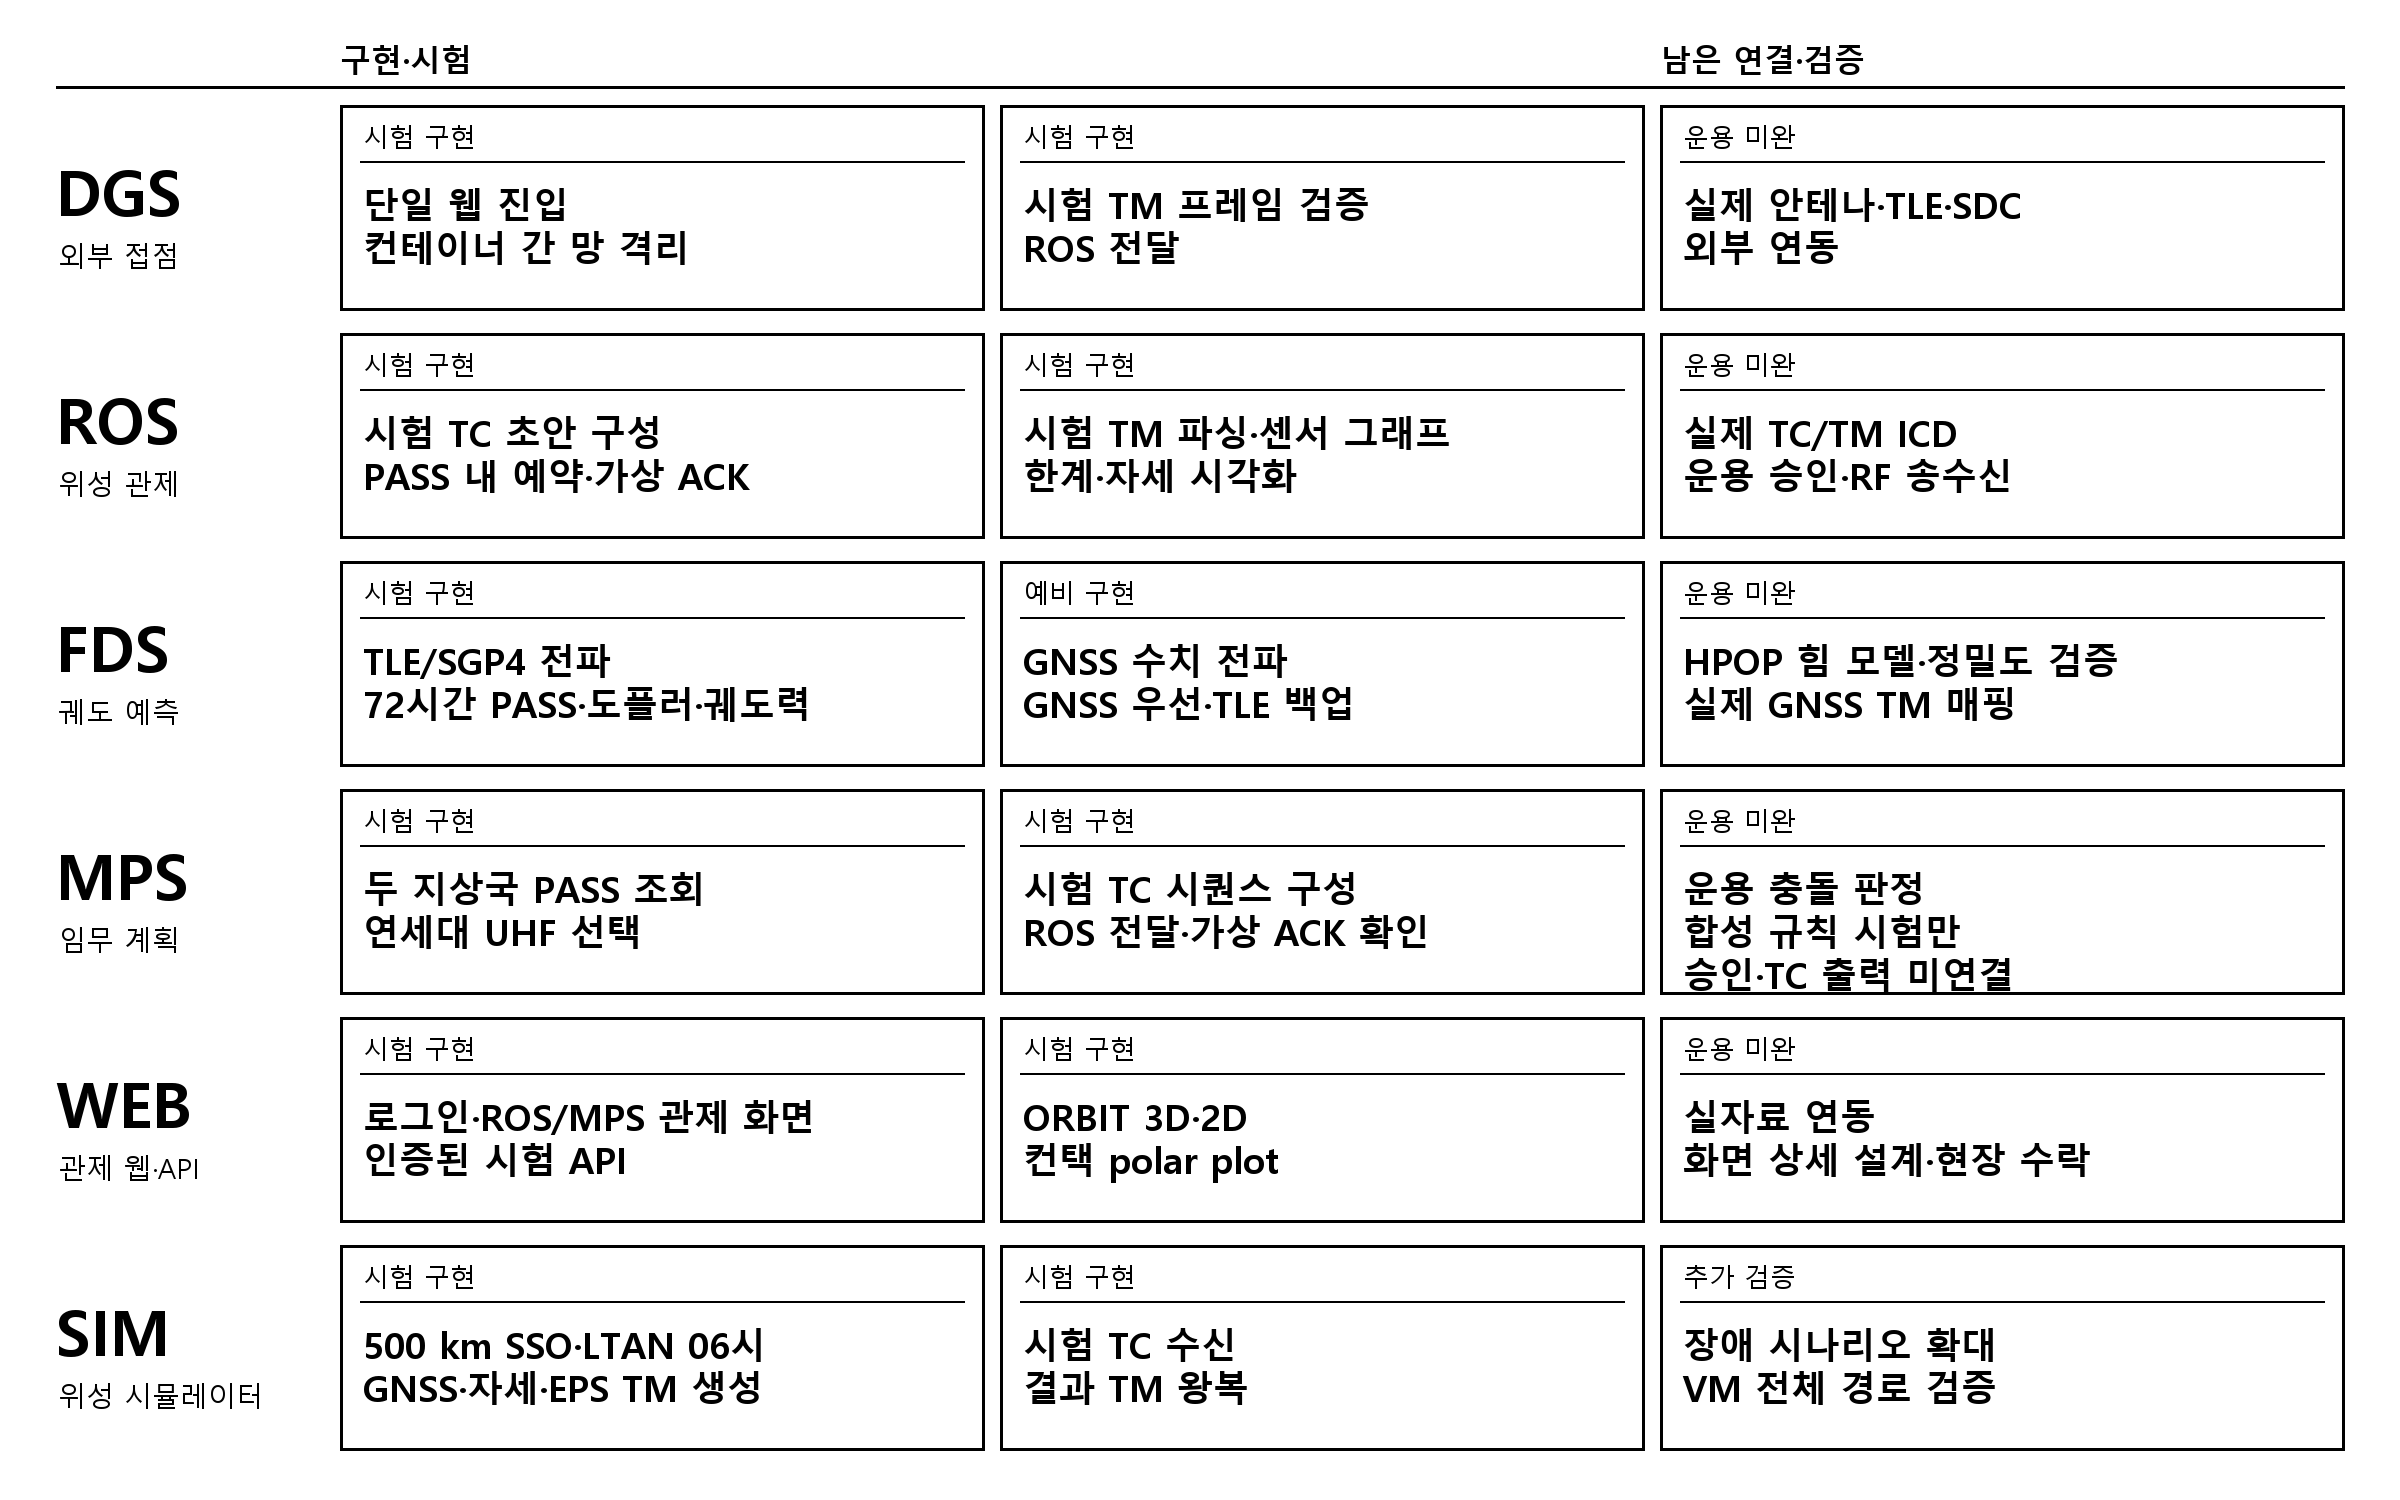
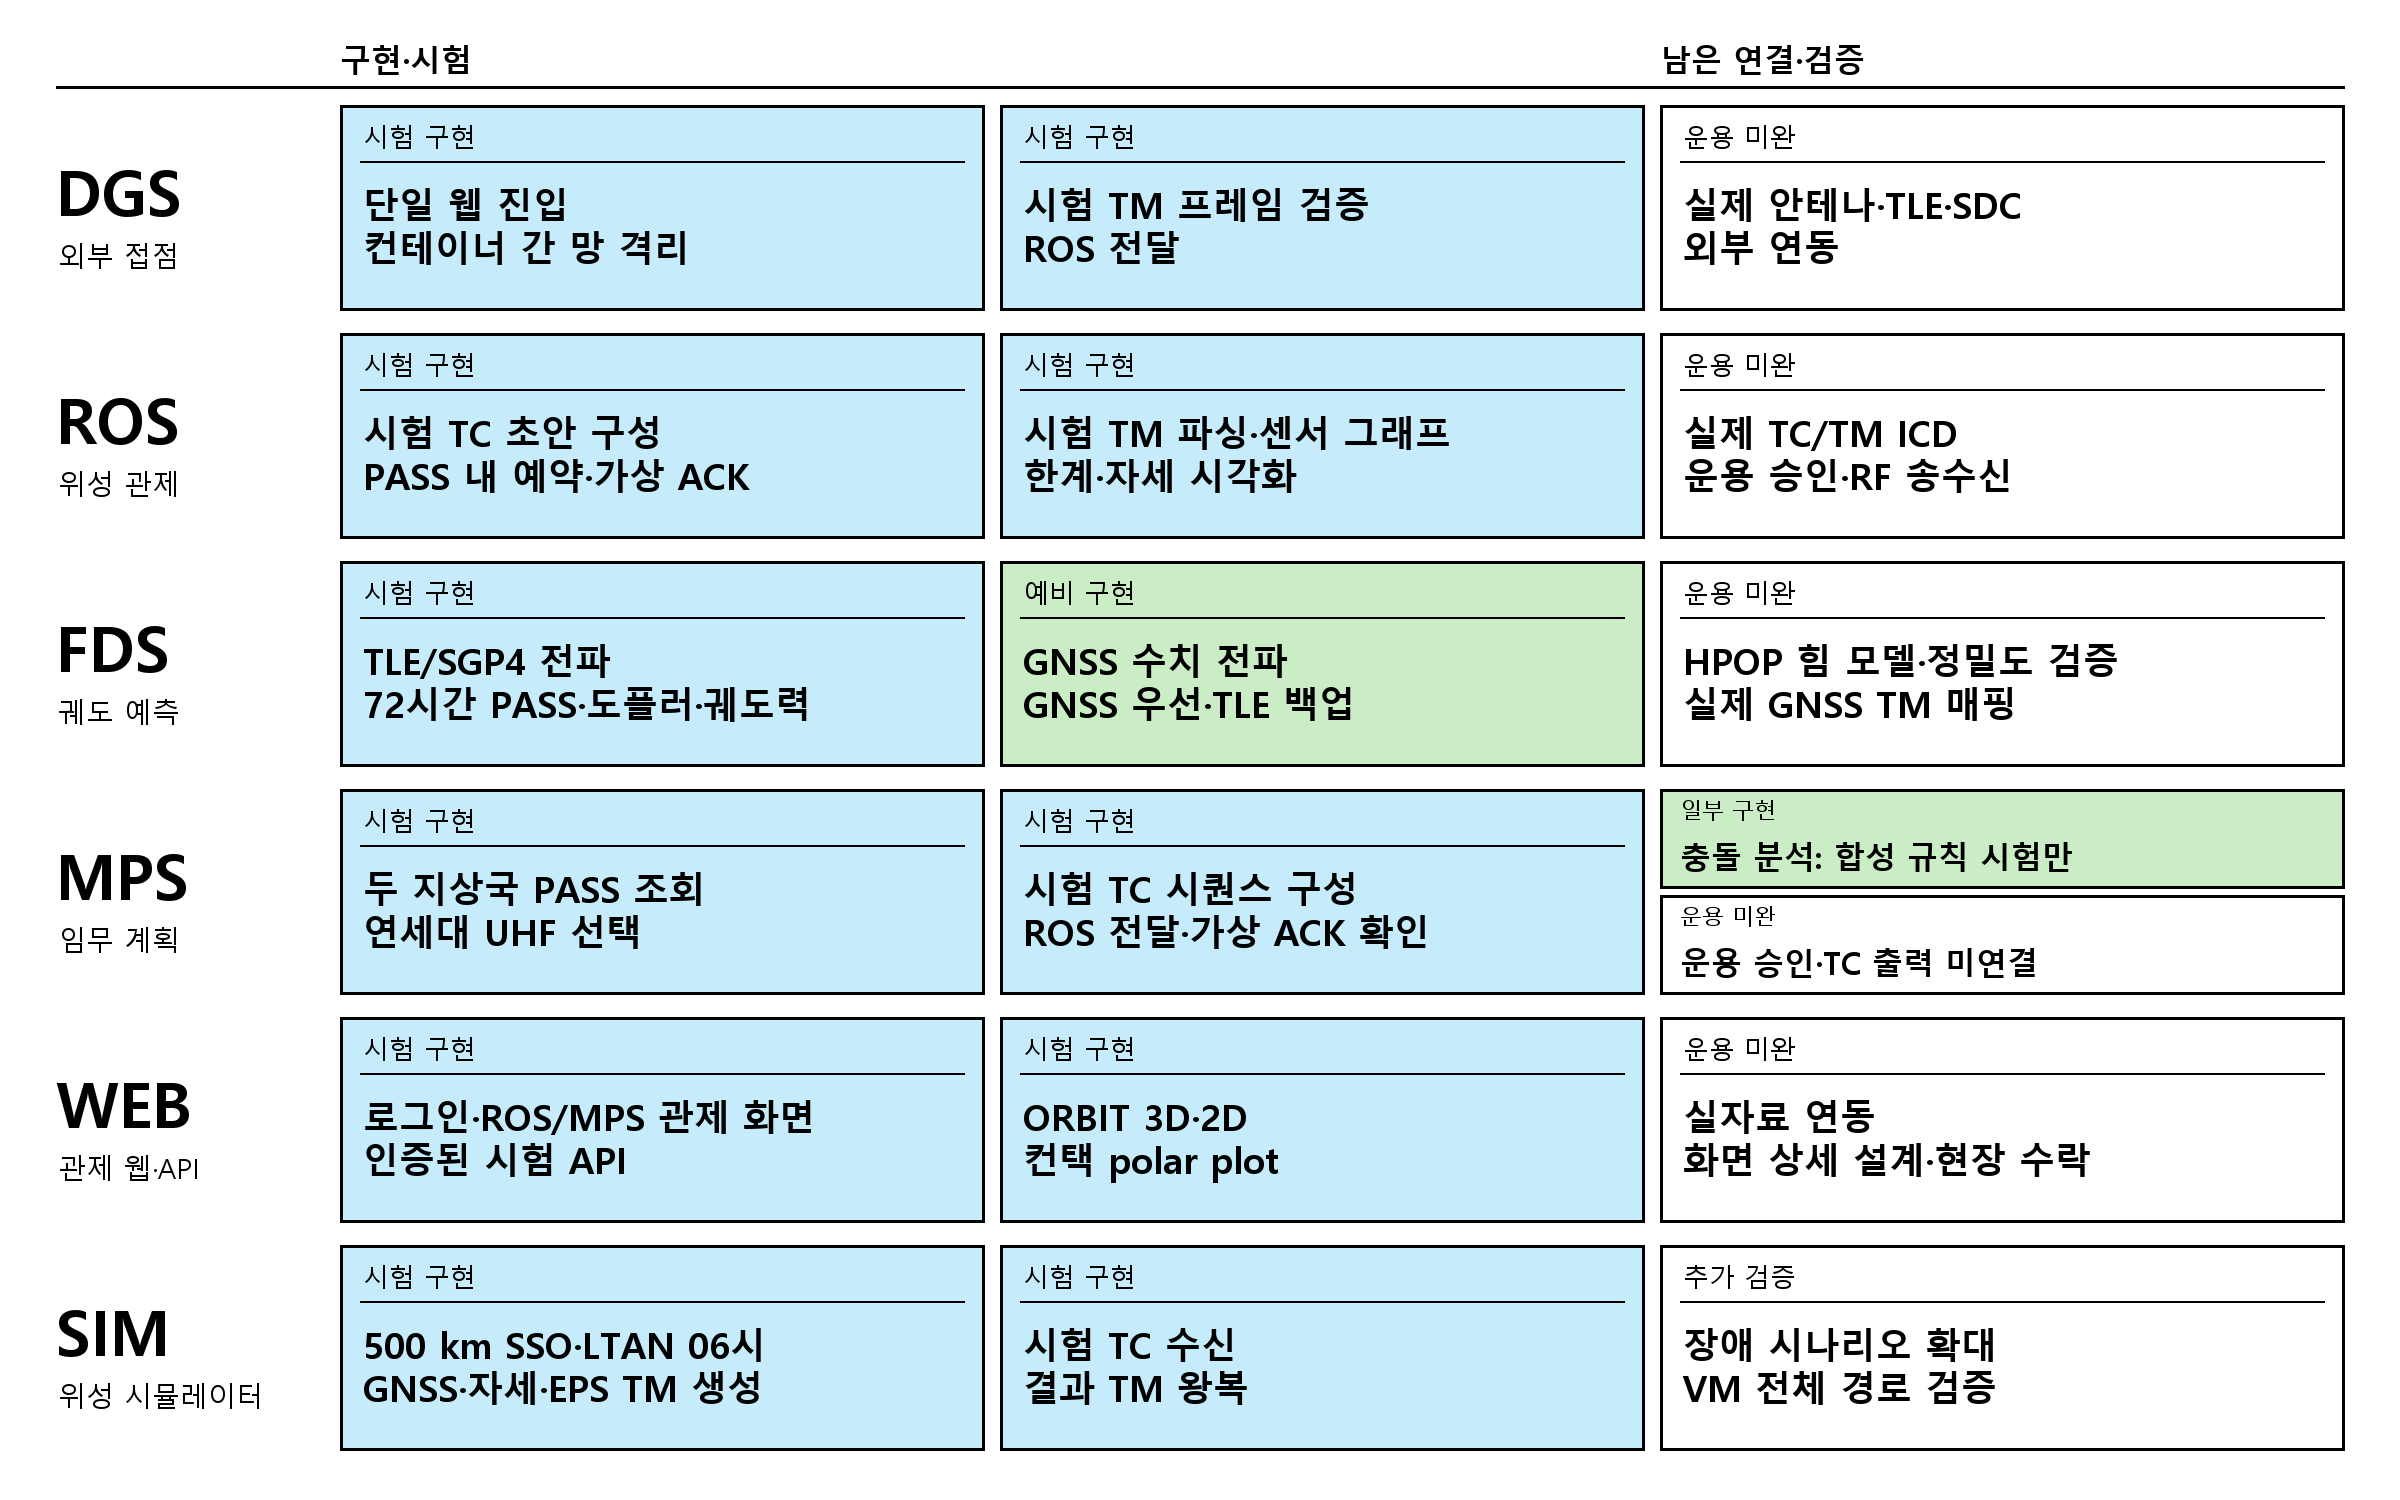
Color code core feature status cards

diff --git a/tools/render_core_feature_status.py b/tools/render_core_feature_status.py
@@ -1,11 +1,11 @@
-"""Render the high-level, monochrome PADO-SAT feature status image."""
+"""Render a high-level PADO-SAT feature status image."""
 
 from __future__ import annotations
 
 import json
 from pathlib import Path
 
-from PIL import Image, ImageChops, ImageDraw, ImageFont
+from PIL import Image, ImageDraw, ImageFont
 
 
 ROOT = Path(__file__).resolve().parents[1]
@@ -13,8 +13,16 @@ SOURCE = ROOT / "docs" / "core_feature_status.json"
 OUTPUT = ROOT / "docs" / "핵심기능_개발현황.png"
 WIDTH, HEIGHT = 2400, 1500
 BLACK, WHITE = (0, 0, 0), (255, 255, 255)
+SKY_BLUE = (198, 235, 250)
+GREEN = (202, 237, 198)
 IDS = ("DGS", "ROS", "FDS", "MPS", "WEB", "SIM")
-STATUSES = {"시험 구현", "예비 구현", "운용 미완", "추가 검증"}
+STATUS_FILL = {
+    "시험 구현": SKY_BLUE,
+    "예비 구현": GREEN,
+    "일부 구현": GREEN,
+    "운용 미완": WHITE,
+    "추가 검증": WHITE,
+}
 FONT_PAIRS = (
     (Path("C:/Windows/Fonts/malgun.ttf"), Path("C:/Windows/Fonts/malgunbd.ttf")),
     (Path("/usr/share/fonts/truetype/nanum/NanumGothic.ttf"),
@@ -46,19 +54,47 @@ def load_rows() -> list[dict]:
     if [row["id"] for row in rows] != list(IDS):
         raise ValueError("The six components must occur in the expected order")
     for row in rows:
-        if len(row["items"]) != 3:
-            raise ValueError(f"{row['id']} must have exactly three feature cards")
+        if len(row["items"]) not in (3, 4):
+            raise ValueError(f"{row['id']} must have three or four feature cards")
         if not row["name"].strip():
             raise ValueError(f"{row['id']} needs a name")
         for item in row["items"]:
-            if item["status"] not in STATUSES or not 1 <= len(item["lines"]) <= 3:
+            if item["status"] not in STATUS_FILL or not 1 <= len(item["lines"]) <= 3:
                 raise ValueError(f"Invalid {row['id']} feature card")
             if any(not isinstance(line, str) or not line.strip() or "\n" in line
                    for line in item["lines"]):
                 raise ValueError(f"Invalid {row['id']} text line")
-        if row["items"][2]["status"] not in {"운용 미완", "추가 검증"}:
+        if row["items"][-1]["status"] not in {"운용 미완", "추가 검증"}:
             raise ValueError(f"{row['id']} needs a remaining-work card")
+        if len(row["items"]) == 4 and any(
+                len(item["lines"]) != 1 for item in row["items"][2:]):
+            raise ValueError(f"{row['id']} split cards need one text line each")
     return rows
+
+
+def draw_card(draw: ImageDraw.ImageDraw, image: Image.Image, item: dict,
+              left: int, top: int, right: int, bottom: int,
+              *, compact: bool = False) -> None:
+    fill = STATUS_FILL[item["status"]]
+    draw.rectangle((left, top, right, bottom), fill=fill,
+                   outline=BLACK, width=3)
+    if compact:
+        draw.text((left + 20, top + 6), item["status"],
+                  font=font(22), fill=BLACK)
+        detail_font = fitting_font(draw, item["lines"], right - left - 42, 31)
+        draw.text((left + 20, top + 46), item["lines"][0],
+                  font=detail_font, fill=BLACK)
+    else:
+        draw.text((left + 23, top + 13), item["status"],
+                  font=font(26), fill=BLACK)
+        draw.line((left + 20, top + 56, right - 20, top + 56),
+                  fill=BLACK, width=2)
+        detail_font = fitting_font(draw, item["lines"], right - left - 46, 36)
+        for line_index, line in enumerate(item["lines"]):
+            draw.text((left + 23, top + 74 + line_index * 43), line,
+                      font=detail_font, fill=BLACK)
+    if image.getpixel((right - 10, bottom - 10)) != fill:
+        raise ValueError("Feature card background differs from its status")
 
 
 def render() -> None:
@@ -75,27 +111,19 @@ def render() -> None:
         draw.text((56, top + 47), row["id"], font=font(62, bold=True), fill=BLACK)
         draw.text((58, top + 135), row["name"], font=font(28), fill=BLACK)
         for card_index, item in enumerate(row["items"]):
-            left, right = cards[card_index]
-            card_top, card_bottom = top + 4, top + 209
-            draw.rectangle((left, card_top, right, card_bottom),
-                           outline=BLACK, width=3)
-            draw.text((left + 23, card_top + 13), item["status"],
-                      font=font(26), fill=BLACK)
-            draw.line((left + 20, card_top + 56, right - 20, card_top + 56),
-                      fill=BLACK, width=2)
-            lines = item["lines"]
-            detail_font = fitting_font(draw, lines, right - left - 46, 36)
-            baseline = card_top + 74
-            for line_index, line in enumerate(lines):
-                draw.text((left + 23, baseline + line_index * 43), line,
-                          font=detail_font, fill=BLACK)
+            left, right = cards[min(card_index, 2)]
+            compact = len(row["items"]) == 4 and card_index >= 2
+            if compact:
+                card_top, card_bottom = ((top + 4, top + 103)
+                                         if card_index == 2 else
+                                         (top + 110, top + 209))
+            else:
+                card_top, card_bottom = top + 4, top + 209
+            draw_card(draw, image, item, left, card_top, right, card_bottom,
+                      compact=compact)
         if top + 209 >= HEIGHT:
             raise ValueError("The content exceeds the image height")
 
-    red, green, blue = image.split()
-    if (ImageChops.difference(red, green).getbbox()
-            or ImageChops.difference(red, blue).getbbox()):
-        raise ValueError("The image contains a colored pixel")
     image.save(OUTPUT, format="PNG", optimize=True)
     print(f"{OUTPUT} | {WIDTH}x{HEIGHT} | {OUTPUT.stat().st_size} bytes")
 
